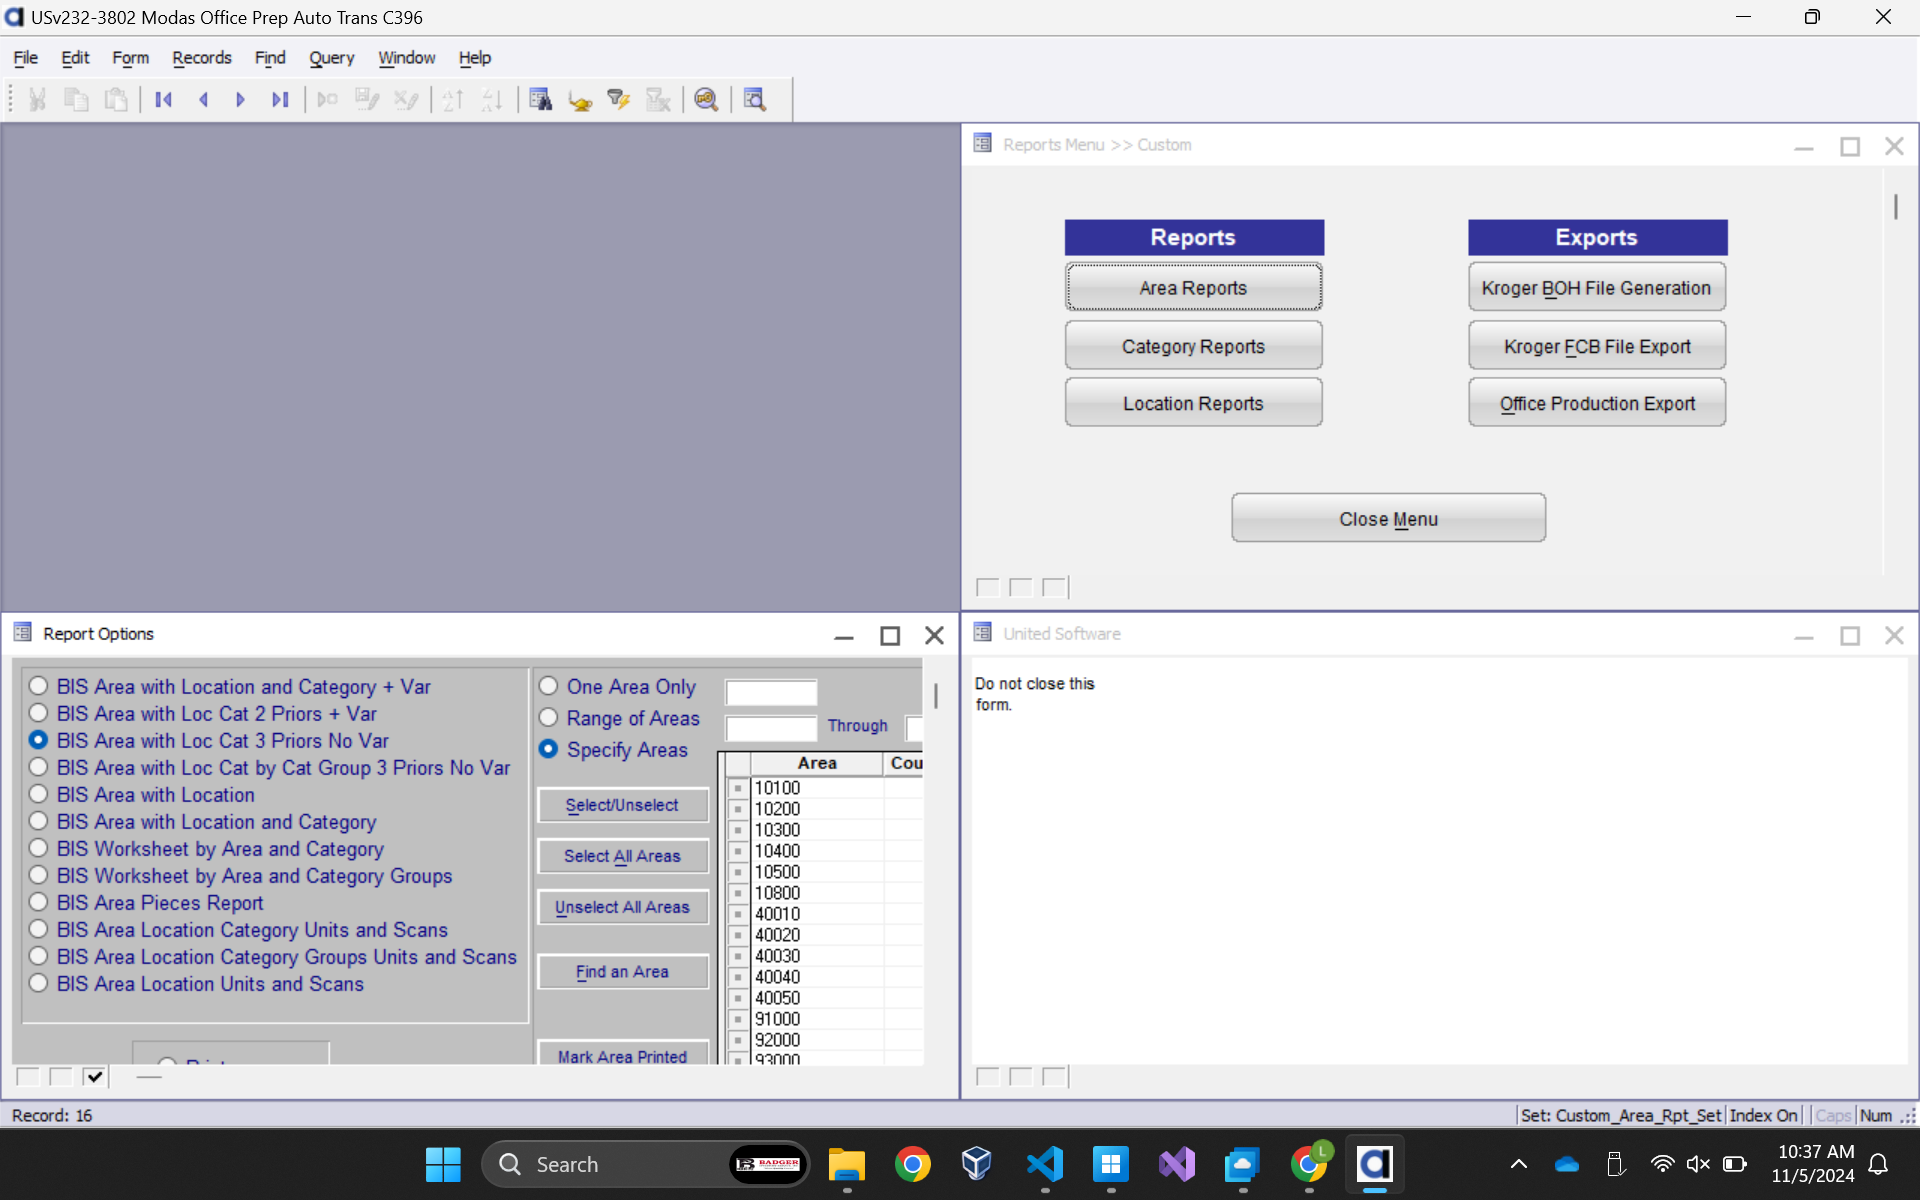
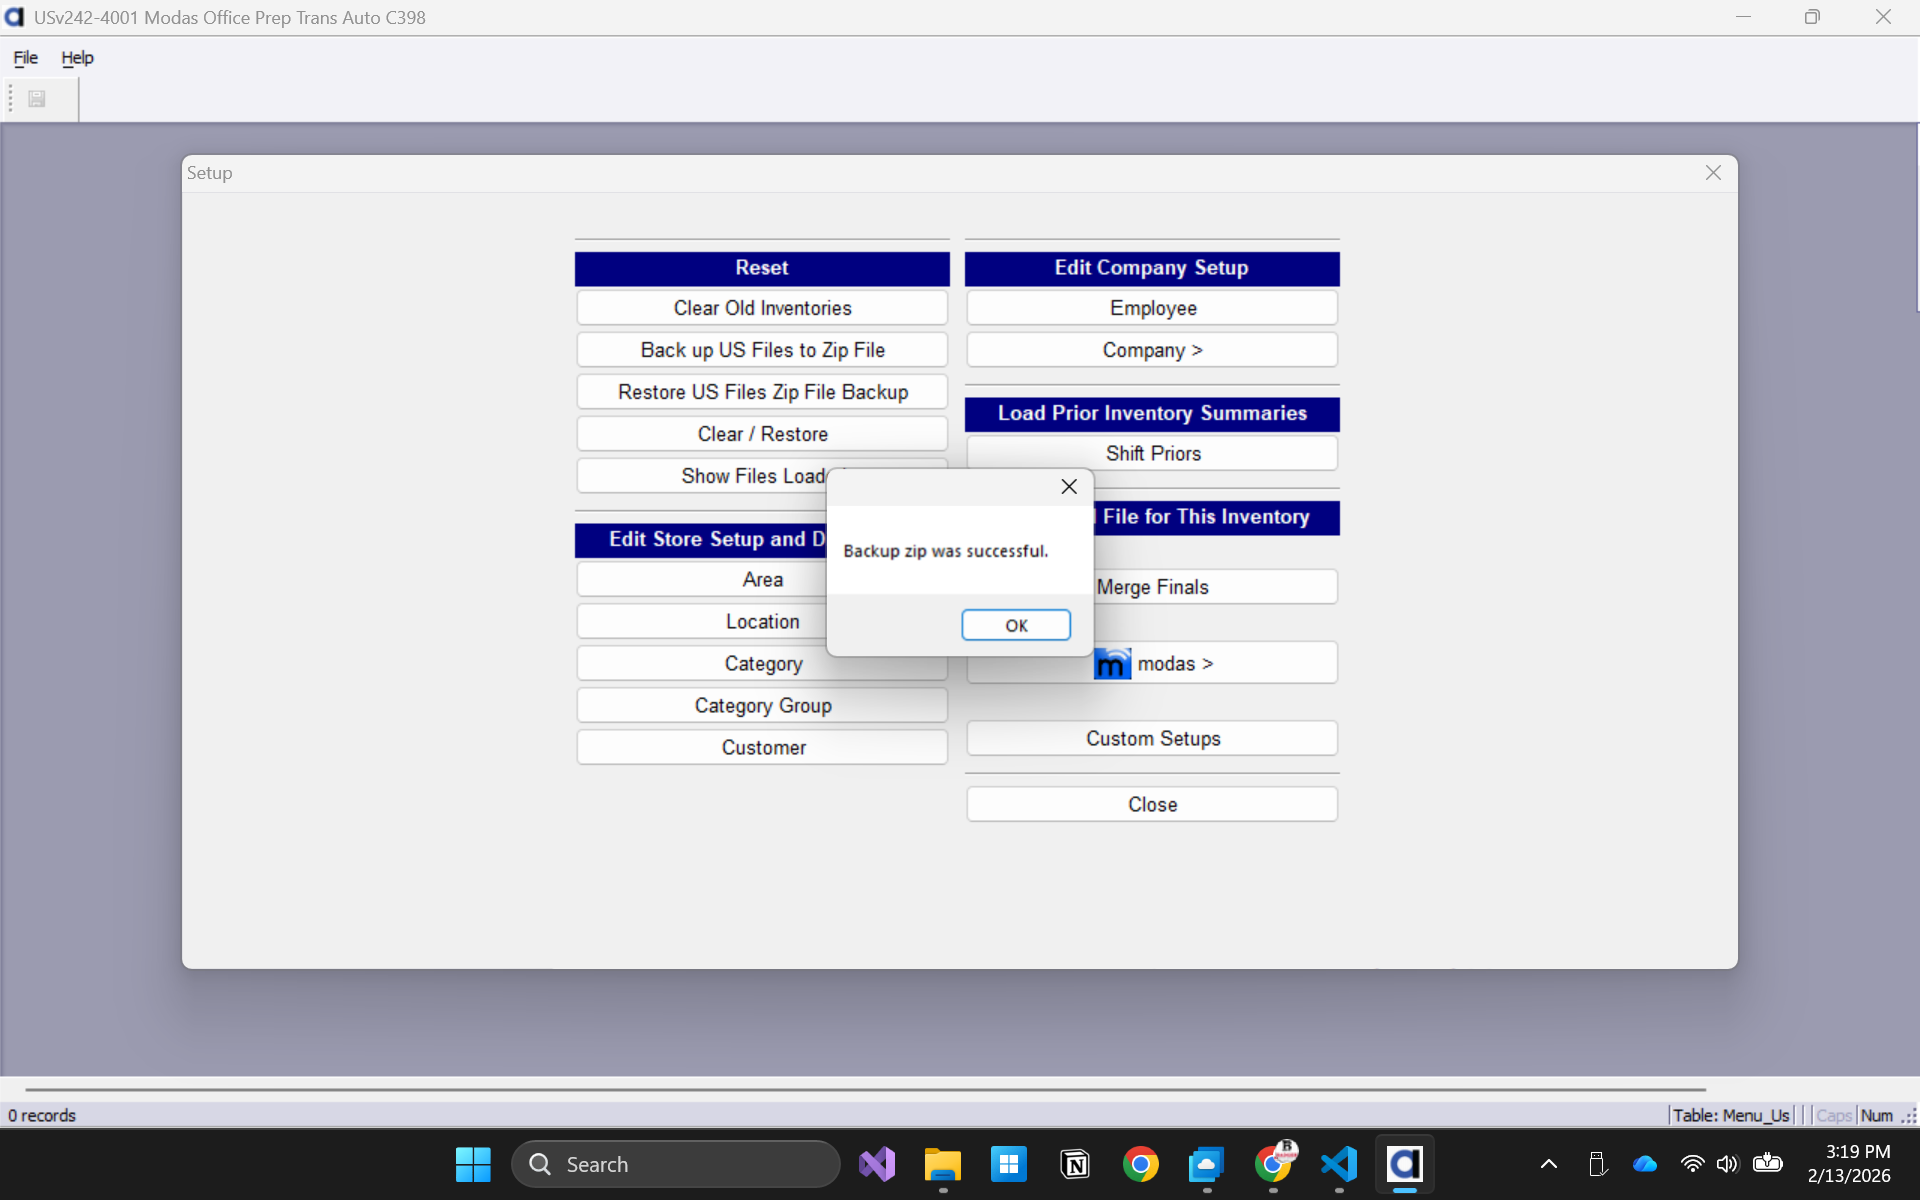
update aurora for kroger rx

diff --git a/KrogerRXAutoShift.py b/KrogerRXAutoShift.py
@@ -159,7 +159,7 @@ for i in range(len(base_subdirs)):
 
     time.sleep(0.5)
 
-    click_button('Images/General/Navigate.png', .85)
+    click_button('Images/General/Navigate.png', .8)
 
     time.sleep(0.5)
 
@@ -173,9 +173,7 @@ for i in range(len(base_subdirs)):
 
     click_button('Images/Setup/ZipIcon.png', .7)
 
-    time.sleep(0.7)
-
-    click_button('Images/Setup/Open.png', .85)
+    click_button('Images/Setup/Open.png', .8)
 
     click_button('Images/Setup/OkClearRestore.png', .8)
 
@@ -183,9 +181,10 @@ for i in range(len(base_subdirs)):
 
     click_button('Images/Setup/ClearOk2.png', .8)
 
+    click_button('Images/Setup/ClearOk2.png', .9)
+
     time.sleep(.5)
 
-    click_button('Images/Setup/ClearOk2.png', .8)
  
     click_button('Images/Setup/Close.png', .8)
 
@@ -212,7 +211,6 @@ for i in range(len(base_subdirs)):
     click_button('Images/TodayInfo/TodayClose.png', .8)
 
 
-
     # Backup
     click_button('Images/MainMenu/Setup.png', .8)
 
@@ -237,27 +235,13 @@ for i in range(len(base_subdirs)):
 
     pyautogui.hotkey('ctrl', 'a', interval=1.25)
 
-    time.sleep(.5)
-
     pyautogui.write(invPath)
-
-    time.sleep(.5)
-
     
     pyautogui.press('enter', interval=.5)
-
-    time.sleep(.5)
-
     
     pyautogui.hotkey('alt', 'n')
-
-    time.sleep(.5)
-
     
     pyautogui.press('left', interval=.5)
-
-    time.sleep(.5)
-
     
     pyautogui.hotkey('ctrl', 'right', interval=.5)
     
@@ -277,8 +261,6 @@ for i in range(len(base_subdirs)):
 
     pyautogui.write(origDate)
 
-    time.sleep(.5)
-
     pyautogui.press('enter', interval=.5)
     
     pyautogui.press('enter', interval=.5)
@@ -286,10 +268,6 @@ for i in range(len(base_subdirs)):
     click_button('Images/Setup/BackupYes.png', .7)
     
     time.sleep(.5)
-    
-    click_button('Images/Setup/BackupOk.png', .7)
-
-    click_button('Images/Setup/BackupOk.png', .7)
     
     click_button('Images/Setup/BackupOk.png', .7)
     

diff --git a/GeneralAutoShiftV3.py b/GeneralAutoShiftV3.py
@@ -185,7 +185,7 @@ for i in range(len(base_subdirs)):
 
     time.sleep(.5)
 
-    click_button('Images/TodayInfo/TodayInfo2.png', .999)
+    click_button('Images/TodayInfo/TodayInfo2.png', .99)
 
     pyautogui.write(invDate)
 
@@ -357,7 +357,8 @@ for i in range(len(base_subdirs)):
     click_button('Images/Lostakes/Send.png', .8)
     click_button('Images/Lostakes/DC_Setup.png', .8)
     click_button('Images/Lostakes/Search.png', .8)
-    pyautogui.write('Financial (w limits)')
+    # pyautogui.write('Financial (w limits)')
+    pyautogui.write('OUTPOST')
     click_button('Images/Lostakes/Apply.png', .8)
     click_button('Images/Lostakes/Ok.png', .8)
     click_button('Images/Lostakes/Create_Cards.png', .8)
@@ -380,7 +381,8 @@ for i in range(len(base_subdirs)):
 
     click_button('Images/Lostakes/Back.png', .8)
     click_button('Images/Lostakes/Finalize.png', .8)
-    click_button('Images/Lostakes/Clear_Everything.png', .8)
+    # click_button('Images/Lostakes/Clear_Everything.png', .8)
+    click_button('Images/Lostakes/Clear_Dir.png', .8)
     pyautogui.hotkey('enter')
     pyautogui.hotkey('enter')
     click_button('Images/Lostakes/Back.png', .8)
